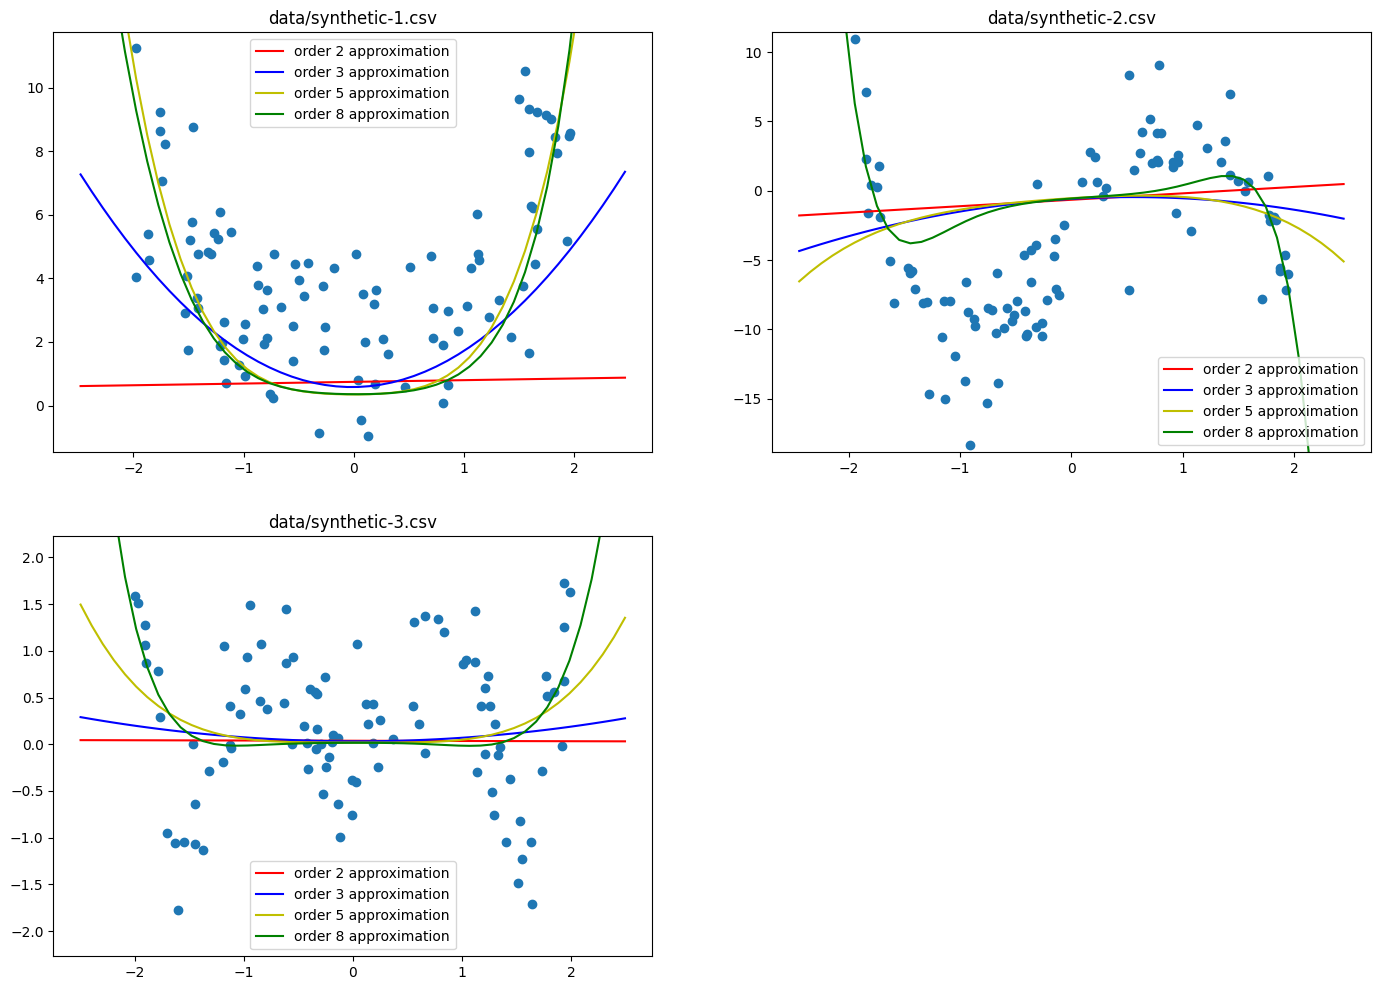
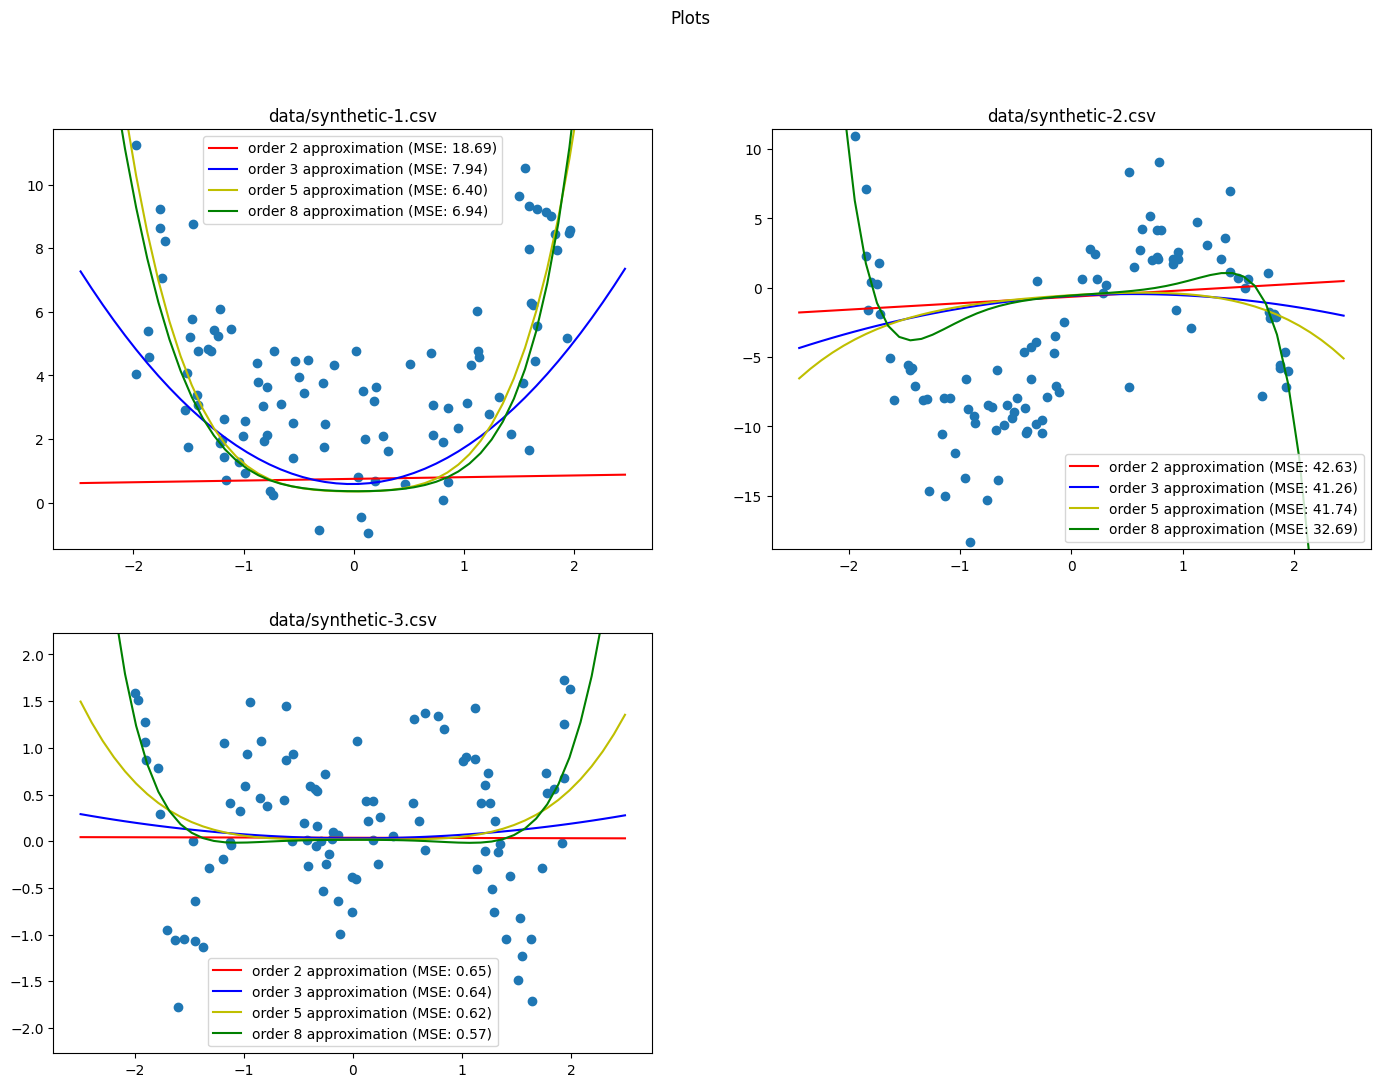
puts MSE in plot

diff --git a/regression.py b/regression.py
@@ -43,15 +43,14 @@ def regression(theta, data):
         theta[j] = theta[j] - (alpha * stochasticLoss(data, theta, j))
     return theta
 
-def addSubplot(theta, x = np.linspace(-3,3), color = '-r'):
+def addSubplot(theta, label, x = np.linspace(-3,3), color = '-r'):
     y = generateLine(theta, x)
-    label='order ' + str(len(theta)) + ' approximation'
     plt.plot(x, y, color, label = label) # , label='order' + order + 'approximation')
 
 plt.figure(figsize=(17,12))
+# plt.suptitle("Plots")
 for index, fileName in enumerate([r'data/synthetic-1.csv', r'data/synthetic-2.csv', r'data/synthetic-3.csv']):
 # for index, fileName in enumerate([r'data/synthetic-3.csv']):
-    print(fileName)
     subplot = plt.subplot(2, 2, index + 1)
     subplot.set_title(fileName)
     data = np.genfromtxt(fileName, delimiter=',')
@@ -61,10 +60,10 @@ for index, fileName in enumerate([r'data/synthetic-1.csv', r'data/synthetic-2.cs
 
     class Polynomial:
         def __init__(self, order, color):
-            self.thetaCount = order
+            self.thetaCount = order + 1
             self.plotColor = color
 
-    for polynomial in [Polynomial(2, '-r'), Polynomial(3, '-b'), Polynomial(5, '-y'), Polynomial(8, '-g')]:
+    for polynomial in [Polynomial(1, '-r'), Polynomial(2, '-b'), Polynomial(4, '-y'), Polynomial(7, '-g')]:
         theta = [0] * polynomial.thetaCount
         theta = regression(theta, data)
         for _ in range(20000):
@@ -73,9 +72,11 @@ for index, fileName in enumerate([r'data/synthetic-1.csv', r'data/synthetic-2.cs
 
         # x = np.linspace(-3,3)
         x = np.linspace(min(data[:,0]-0.5), max(data[:,0])+0.5)
-        addSubplot(theta, x, polynomial.plotColor)
+        roundedMSE = "{:.2f}".format(meanSquaredError(theta, data))
+        label='order ' + str(len(theta)) + ' approximation (MSE: ' + roundedMSE + ')'
+        addSubplot(theta, label, x, polynomial.plotColor)
         # print(theta)
-        print("MSE for order", polynomial.thetaCount - 1, ":", meanSquaredError(theta, data))
-    plt.legend()#(loc='upper left')
+        # print("MSE for order", polynomial.thetaCount - 1, ":", meanSquaredError(theta, data))
+    plt.legend()
 # plt.show()
 plt.savefig(r'media/plots.png', bbox_inches='tight')
